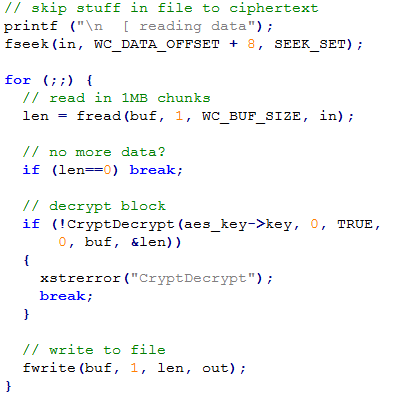
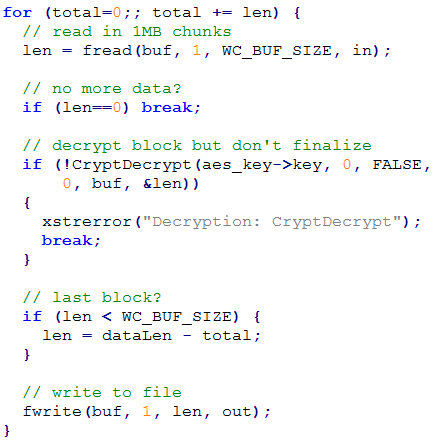
upd

diff --git a/wanafork.c b/wanafork.c
@@ -402,9 +402,6 @@ aes_key_t* get_aes_key(HCRYPTPROV prov, HCRYPTKEY rsa_key, const char *file)
       
       // set to use CBC mode
       CryptSetKeyParam(aes_key->key, KP_MODE, (PBYTE)&mode, 0);
-      
-      padding = PKCS5_PADDING;
-      CryptSetKeyParam(aes_key->key, KP_PADDING, (PBYTE)&padding, 0);
     }
     
     // fingers crossed :P
@@ -469,15 +466,22 @@ void encrypt(HCRYPTPROV prov, HCRYPTKEY rsa_key, const char *infile)
           // encrypt data and write to archive
           for (;;) {
             // read in 1MB chunks
-            len = fread(buf, 1, WC_BUF_SIZE, in);
+            len = fread(buf, 1, WC_BUF_SIZE-16, in);
         
             // no more data?
             if (len==0) break;
 
+            if (len<(WC_BUF_SIZE-16)) {
+              memset(&buf[len], 0, (WC_BUF_SIZE-16)-len);
+              
+              if ((len & 15)) {
+                len = (len & -16) + 16;
+              }
+            }
             // encrypt block
             // WanaCryptor uses zero padding
             // so we shouldn't finalize encryption
-            CryptEncrypt(aes_key->key, 0, len<WC_BUF_SIZE, 
+            CryptEncrypt(aes_key->key, 0, FALSE, 
                 0, buf, &len, WC_BUF_SIZE);
 
             // write to file
@@ -545,9 +549,6 @@ void decrypt(HCRYPTPROV prov, HCRYPTKEY rsa_key, const char *infile)
             if (len==0) break;
             
             // decrypt block but don't finalize
-            // WanaCryptor uses zero padding.
-            // if we finalize for last block, capi fails
-            // since it doesn't support zero padding
             if (!CryptDecrypt(aes_key->key, 0, FALSE, 
                 0, buf, &len))
             {
